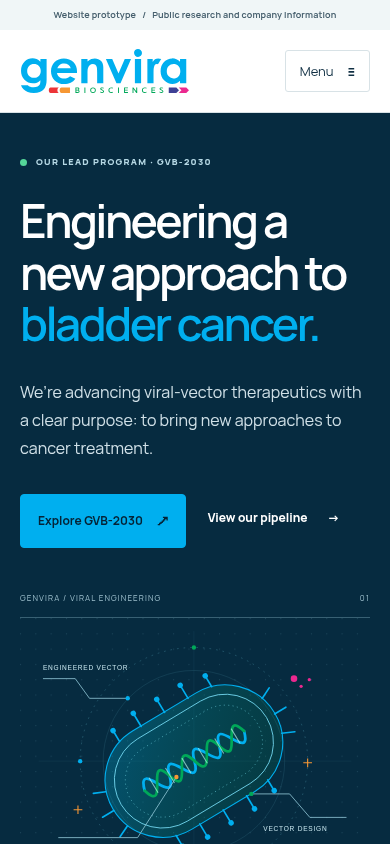
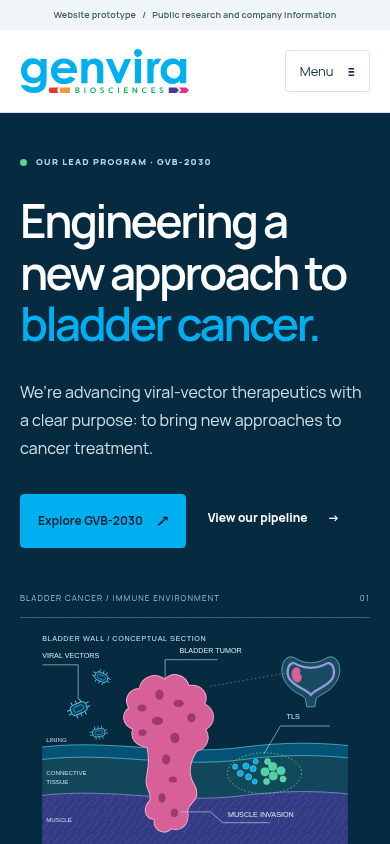
show muscle invasive bladder tumor with tls and viral vectors

Changed region(s): [[0.0923, 0.7393, 0.8923, 1.0], [0.3077, 0.7393, 0.3692, 0.7701]]

diff --git a/wp-content/themes/genvira/content/home.html b/wp-content/themes/genvira/content/home.html
@@ -1,4 +1,4 @@
-<section class="home-hero"><div class="shell hero-grid"><div class="hero-copy"><p class="eyebrow"><span class="status-dot"></span> OUR LEAD PROGRAM · GVB-2030</p><h1>Engineering a new approach to <span>bladder cancer.</span></h1><p>We’re advancing viral-vector therapeutics with a clear purpose: to bring new approaches to cancer treatment.</p><div class="button-row"><a class="button button-cyan" href="{{url:gvb-2030}}">Explore GVB-2030 <span aria-hidden="true">↗</span></a><a class="hero-text-link" href="{{url:pipeline}}">View our pipeline <span aria-hidden="true">→</span></a></div></div><figure class="hero-visual"><div class="visual-topline"><span>GENVIRA / VIRAL ENGINEERING</span><span>01</span></div><img src="{{asset:vector.svg}}" alt="Illustration of an engineered viral vector carrying a therapeutic payload" width="640" height="540"><figcaption>Designed with therapeutic purpose.<br><span>Conceptual illustration, not experimental data.</span></figcaption></figure></div><div class="shell hero-facts"><div><span>LEAD CANDIDATE</span><strong>GVB-2030</strong></div><div><span>THERAPEUTIC FOCUS</span><strong>Bladder cancer</strong></div><div><span>DEVELOPMENT STAGE</span><strong>IND-enabling studies</strong></div><a href="{{url:gvb-2030}}#development">Program overview <span aria-hidden="true">↗</span></a></div></section>
+<section class="home-hero"><div class="shell hero-grid"><div class="hero-copy"><p class="eyebrow"><span class="status-dot"></span> OUR LEAD PROGRAM · GVB-2030</p><h1>Engineering a new approach to <span>bladder cancer.</span></h1><p>We’re advancing viral-vector therapeutics with a clear purpose: to bring new approaches to cancer treatment.</p><div class="button-row"><a class="button button-cyan" href="{{url:gvb-2030}}">Explore GVB-2030 <span aria-hidden="true">↗</span></a><a class="hero-text-link" href="{{url:pipeline}}">View our pipeline <span aria-hidden="true">→</span></a></div></div><figure class="hero-visual"><div class="visual-topline"><span>BLADDER CANCER / IMMUNE ENVIRONMENT</span><span>01</span></div><img src="{{asset:tumor-environment.svg}}" alt="Conceptual bladder-wall section showing a tumor invading the muscle layer, nearby tertiary lymphoid structures (TLS), and viral vectors" width="680" height="560"><figcaption>Muscle-invasive tumor · TLS · Viral vectors<br><span>Conceptual illustration, not experimental data.</span></figcaption></figure></div><div class="shell hero-facts"><div><span>LEAD CANDIDATE</span><strong>GVB-2030</strong></div><div><span>THERAPEUTIC FOCUS</span><strong>Bladder cancer</strong></div><div><span>DEVELOPMENT STAGE</span><strong>IND-enabling studies</strong></div><a href="{{url:gvb-2030}}#development">Program overview <span aria-hidden="true">↗</span></a></div></section>
 <section class="section shell introduction"><div><p class="eyebrow">THERAPEUTICS FIRST</p><h2>One lead program.<br>A platform built<br>to go further.</h2></div><div><p class="large-copy">GVB-2030 brings our viral engineering expertise into focus.</p><p>Our lead program is an engineered vaccinia virus being developed for bladder cancer. It is designed to deliver an immune-activating payload to the tumor environment.</p><p>Behind it is a broader development platform that brings vector design, characterization, and manufacturing considerations together.</p><a class="text-link" href="{{url:gvb-2030}}">Meet our lead program <span aria-hidden="true">↗</span></a></div></section>
 <section class="platform-feature"><div class="shell feature-grid"><div class="feature-heading"><p class="eyebrow">OUR ENGINEERING PLATFORM</p><h2>From vector design<br>to therapeutic potential.</h2><p>We engineer the vector and evaluate how it performs, with translation in mind from the start.</p><a class="button button-outline" href="{{url:platform}}">Explore our platform <span aria-hidden="true">↗</span></a></div><div class="capability-list"><div><span class="step-number">01</span><div><h3>Design & engineer</h3><p>Vector architecture, genetic stability, and payload design.</p></div><span class="capability-symbol cyan" aria-hidden="true">◎</span></div><div><span class="step-number">02</span><div><h3>Measure & characterize</h3><p>Potency, durability, and immune activity assays.</p></div><span class="capability-symbol green" aria-hidden="true">⌁</span></div><div><span class="step-number">03</span><div><h3>Develop for translation</h3><p>Process development and scalable manufacturing considerations.</p></div><span class="capability-symbol violet" aria-hidden="true">⤴</span></div></div></div></section>
 <section class="section shell company-note"><p class="eyebrow">BUILT IN OTTAWA. WORKING THROUGH COLLABORATION.</p><div><h2>Research roots.<br>A therapeutic focus.</h2><p>Genvira grew out of the Ottawa Hospital Research Institute. Today, our team brings viral engineering and translational research together to advance our own programs and work with partners.</p><a class="text-link" href="{{url:about}}">Get to know Genvira <span aria-hidden="true">↗</span></a></div></section>

diff --git a/wp-content/themes/genvira/content/gvb-2030.html b/wp-content/themes/genvira/content/gvb-2030.html
@@ -1,3 +1,4 @@
 <section class="section shell"><div class="program-overview"><div><span class="tag">LEAD PROGRAM</span><h2>Engineering a vector<br>with a therapeutic purpose.</h2><p class="large-copy">GVB-2030 is an investigational, engineered vaccinia virus program for bladder cancer.</p><p>The program is designed to carry cytokine payloads and engage the tumor environment. Our development work focuses on the vector, its biological activity, and the evidence needed to support further clinical development.</p></div><dl class="fact-panel"><div><dt>Program</dt><dd>GVB-2030</dd></div><div><dt>Indication</dt><dd>Bladder cancer</dd></div><div><dt>Vector</dt><dd>Engineered vaccinia virus</dd></div><div><dt>Payload class</dt><dd>Cytokines</dd></div><div><dt>Published stage</dt><dd>IND-enabling studies</dd></div></dl></div></section>
+<section class="tinted-section" id="tumor-environment"><div class="section shell"><p class="eyebrow">THE TUMOR & ITS IMMUNE ENVIRONMENT</p><div class="section-heading"><h2>Showing disease beyond<br>the bladder lining.</h2><p>A closer look at muscle-invasive disease<br>and the surrounding immune environment.</p></div><div class="tumor-context-grid"><figure class="tumor-context-figure"><img src="{{asset:tumor-environment.svg}}" alt="A bladder tumor extends through the lining and connective tissue into the muscle. Nearby, a tertiary lymphoid structure contains B-cell and T-cell zones, with viral-vector symbols shown separately." width="680" height="560" loading="lazy"><figcaption>Muscle invasion is shown explicitly. Simplified anatomy; elements are not to scale.</figcaption></figure><div class="tumor-context-copy"><h3>Beyond stages 0 and I</h3><p>Stage 0 disease is confined to the lining. In stage I, the tumor has entered connective tissue but has not reached the muscle. Stage II disease involves the muscle layer; the illustration shows that deeper invasion.</p><dl class="tumor-context-definitions"><div><dt>Tertiary lymphoid structures (TLS)</dt><dd>Organized groups of immune cells, including B cells and T cells, that can form in tumor-associated tissue.</dd></div><div><dt>Viral vectors</dt><dd>Shown alongside the tumor and immune environment to illustrate the components of viral-vector research.</dd></div></dl><p class="small">This schematic provides disease and research context. It does not depict a demonstrated GVB-2030 treatment response or establish a clinical-stage patient population.</p></div></div><p class="source-note">Disease staging: <a href="https://www.cancer.gov/types/bladder/stages">National Cancer Institute: Bladder Cancer Stages</a>. TLS background: <a href="https://doi.org/10.1038/s41416-024-02598-7">British Journal of Cancer, 2024</a>.</p></div></section>
 <section class="tinted-section" id="development"><div class="shell section"><p class="eyebrow">DEVELOPMENT</p><div class="section-heading"><h2>A clear next step.</h2><p>Building the evidence needed<br>for first-in-human evaluation.</p></div><ol class="development-steps"><li><span>01</span><h3>Vector development</h3><p>Engineering and characterization of the candidate.</p></li><li class="current"><span>02 · CURRENT PUBLIC STAGE</span><h3>IND-enabling studies</h3><p>Studies to support preparation for clinical development.</p></li><li><span>03 · NEXT DEVELOPMENT GOAL</span><h3>First-in-human studies</h3><p>Subject to completion of development work and applicable authorizations.</p></li></ol><p class="source-note">The public pipeline lists IND-enabling studies. First-in-human development is a next step, not a statement that a trial is enrolling. <a href="https://genvira.com/pages/pipeline">Pipeline source</a> · <a href="https://genvira.com/pages/about">Company overview</a>.</p></div></section>
 <section class="section shell"><div class="section-heading"><div><p class="eyebrow">THE DEVELOPMENT RATIONALE</p><h2>The vector is part of the therapy.</h2></div></div><div class="three-columns"><div><span class="number-label">01 / ENGINEER</span><h3>A modified viral vector</h3><p>GVB-2030 uses a highly modified vaccinia virus as its delivery vehicle.</p></div><div><span class="number-label">02 / DELIVER</span><h3>An immune-activating payload</h3><p>Cytokine payloads are part of the publicly described program design.</p></div><div><span class="number-label">03 / EVALUATE</span><h3>Evidence for the next stage</h3><p>Assays and development studies characterize how the candidate performs before clinical evaluation.</p></div></div><p class="source-note">This is a high-level description of the research program, not a demonstration of clinical benefit. GVB-2030 is not an approved treatment.</p><div class="button-row"><a class="button" href="{{url:partnering}}">Discuss the program <span aria-hidden="true">↗</span></a><a class="text-link" href="{{url:pipeline}}">See the full pipeline <span aria-hidden="true">→</span></a></div></section>

diff --git a/wp-content/themes/genvira/style.css b/wp-content/themes/genvira/style.css
@@ -15,3 +15,5 @@ text domain: genvira
 @media(prefers-reduced-motion:reduce){*,*::before,*::after{scroll-behavior:auto!important;animation:none!important;transition:none!important}}
 
 @media(max-width:640px){.pipeline-table{min-width:0}.pipeline-table caption{display:block}.pipeline-table thead{position:absolute;width:1px;height:1px;overflow:hidden;clip-path:inset(50%)}.pipeline-table tbody{display:block}.pipeline-table tbody tr{display:grid;grid-template-columns:1fr;border:1px solid var(--line);margin-bottom:20px;border-radius:4px;padding-block:8px 14px}.pipeline-table tbody th,.pipeline-table td{display:block;border:0;padding:12px 20px}.pipeline-table tbody th{border-bottom:1px solid var(--line);margin-bottom:5px}.pipeline-table td::before{content:attr(data-label);display:block;font-size:10px;text-transform:uppercase;letter-spacing:.06em;font-weight:750;color:var(--muted);margin-bottom:5px}}
+
+.tumor-context-grid{display:grid;grid-template-columns:1.15fr 1fr;gap:55px;align-items:start}.tumor-context-figure{margin:0;background:var(--navy);border-radius:5px;padding:20px}.tumor-context-figure img{width:100%}.tumor-context-figure figcaption{font-size:12px;line-height:1.7;color:#c9dce6;padding:0 16px 15px}.tumor-context-copy>p{font-size:15px;color:var(--muted)}.tumor-context-copy>h3{font-size:27px}.tumor-context-definitions{margin:28px 0}.tumor-context-definitions>div{padding:19px 0;border-top:1px solid #bbced7}.tumor-context-definitions dt{font-size:16px;font-weight:750;margin-bottom:8px}.tumor-context-definitions dd{margin:0;font-size:14px;color:var(--muted)}@media(max-width:900px){.tumor-context-grid{gap:30px;grid-template-columns:1fr}.tumor-context-figure{max-width:680px;width:100%;margin-inline:auto}}@media(max-width:640px){.tumor-context-figure{padding:8px}.tumor-context-figure figcaption{font-size:12px;padding:4px 12px 14px}}

diff --git a/docs/prototype.md b/docs/prototype.md
@@ -62,3 +62,13 @@ The browser checks cover eleven pages at 1440 px desktop and 390 px mobile width
 The sanitized SQL was imported into a temporary database. Checks confirmed all eleven page summaries, fifteen prototype content markers, the selected theme, four queryable research posts, and creation of a fresh administrator with ID 1. Checksums confirmed that the restore test did not change the working database.
 
 Browser captures of the actual WordPress theme: [desktop homepage](../wp-content/themes/genvira/screenshot.png), [mobile homepage](prototype-mobile.png), and [mobile pipeline](pipeline-mobile.png).
+
+## CEO illustration update, 16 November 2026
+
+The homepage now shows a bladder-wall section with a tumor extending through the lining and connective tissue into muscle, rather than only an isolated viral vector. The illustration includes an anatomical bladder inset, cyan viral-vector symbols, and a tertiary lymphoid structure (TLS) with B-cell and T-cell groups. TLS was interpreted as tertiary lymphoid structures in this oncology context.
+
+The GVB-2030 page repeats the schematic and explains its disease context in readable text. Stage II is used as the concrete example of muscle invasion beyond stages 0 and I, following the [National Cancer Institute staging description](https://www.cancer.gov/types/bladder/stages). This does not relabel every stage beyond I as metastatic or establish a clinical eligibility criterion for GVB-2030. The program's public indication and IND-enabling development status remain as previously sourced.
+
+TLS are presented as organized immune-cell groups that can occur in tumor-associated tissue, with [primary bladder cancer research](https://doi.org/10.1038/s41416-024-02598-7) linked for background. Their presence in the schematic does not assert that GVB-2030 induces TLS or has shown a TLS-related clinical outcome. The illustration is original SVG artwork, not a reproduction of the supplied screenshot, a histology image, or experimental data.
+
+The updated [program-page preview](tumor-context-desktop.png) shows the staging explanation and diagram together. Desktop and mobile browser checks and the static-export link checks passed for this update.

diff --git a/database/README.md b/database/README.md
@@ -1,8 +1,8 @@
 # Prototype snapshot
 
-`initial.sql` was generated on 12 November 2026 from the local WordPress 7.1.4 prototype at `http://localhost:8080` using `wp_dev snapshot`.
+`initial.sql` was generated on 16 November 2026 from the local WordPress 7.1.4 prototype at `http://localhost:8080` using `wp_dev snapshot`.
 
-It includes eleven Genvira prototype pages and four research updates, with the `genvira` theme selected and no plugins active. Existing WordPress starter records are preserved. Page summaries and prototype article metadata are retained so the restored theme and research archive work immediately.
+It includes eleven Genvira prototype pages and four research updates, with the `genvira` theme selected and no plugins active. The homepage and GVB-2030 page include the muscle-invasive tumor, TLS, and viral-vector illustration. Existing WordPress starter records are preserved. Page summaries and prototype article metadata are retained so the restored theme and research archive work immediately.
 
 Users, password hashes, sessions, comments, private posts, and nonapproved settings are excluded. Uploads are not included. Each developer creates a local administrator after import; the first account receives ID 1, which owns the sanitized content.
 
